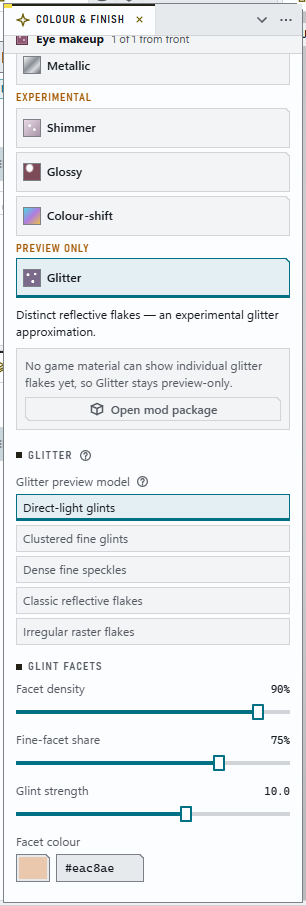
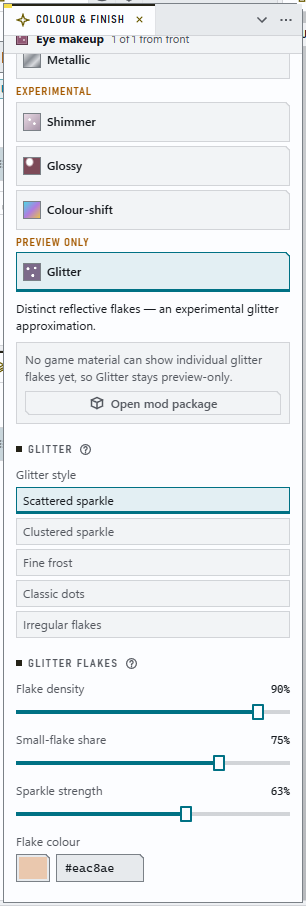
Glitter style choice: plain copy, one help tip, percentage strength (UI gate fixes)
- The list reads "Glitter style": Scattered sparkle, Clustered sparkle, Fine frost (research:
  Classic dots, Irregular flakes), each summary saying what the user sees.
- The flakes section is "Glitter flakes" with a help tip: Flake density, Small-flake share,
  Sparkle strength (as a percentage of its top), Flake colour.
- The Glitter heading holds the one help tip (the chosen style, then how its colours work).
- Recaptured light and dark, 300 and 480 px, research tools off and on, plus a legacy Classic
  layer at 300 px (listed, gone after switching, back after Undo).

diff --git a/projects/xf-studio/authoring/src/features/eye-makeup/view/inspector.ts b/projects/xf-studio/authoring/src/features/eye-makeup/view/inspector.ts
@@ -101,10 +101,10 @@ export function finishPanel(ctx: EyeMakeupViewContext): PanelController {
   const shiftSection = section({ title: "Colour shift", help: ["The shift colour shows toward the lid's edges as the view angle grows.",
     "One shift colour per preset is built into your mod."] }, h("div", { class: "row gap-m align-end" }, shift.color.element, shift.strength.element));
 
-  // Glitter preview models: the three glint models with long names, all shown (ChoiceList `rows`); the classic and irregular
-  // flake studies join them only with research tools on (or on a layer already using one).
-  // The chosen model's description is its help tip (UI-131): what it is, not something to do.
-  const model = new ChoiceList<GlitterModel>({ label: "Glitter preview model", layout: "rows", help: "", onSelect: value => {
+  // Glitter styles: the three sparkle models, all shown (ChoiceList `rows`); the classic and irregular flake studies join them
+  // only with research tools on (or on a layer already using one). The chosen style's description goes in the Glitter
+  // heading's one help tip (UI-131), so the list has no tip of its own.
+  const model = new ChoiceList<GlitterModel>({ label: "Glitter style", layout: "rows", onSelect: value => {
     const layer = ctx.facade.view().layer(); if (layer) ctx.dispatch({ kind: "glitter.selectModel", layerId: layer.id, model: value });
   } });
   const classic = {
@@ -136,25 +136,29 @@ export function finishPanel(ctx: EyeMakeupViewContext): PanelController {
     { term: "Covered pixels", value: measured.pixels, mono: true }], { label: "Flake measurement", className: "flake-measurement" });
   // The glint-strength control's usable top comes from the Glitter model catalogue (UI-93).
   const glintMax = catalogues(ctx).glitterModels.find(item => item.controlMax?.strength)?.controlMax?.strength;
+  // Shown as a percentage of the control's top, beside the other percentage sliders.
+  const strengthMax = Math.min(glintMax ?? Infinity, ctx.range("glitter.setDirect", "value", "strength").max);
   const direct = {
-    density: new Slider({ label: "Facet density", ...ctx.range("glitter.setDirect", "value", "density"), step: .01, format: pct,
+    density: new Slider({ label: "Flake density", ...ctx.range("glitter.setDirect", "value", "density"), step: .01, format: pct,
       transaction: recipeTransaction<number>(ctx, "direct-density", (layer, value) => ({ kind: "glitter.setDirect", layerId: layer.id, key: "density", value })) }),
-    fineShare: new Slider({ label: "Fine-facet share", ...ctx.range("glitter.setDirect", "value", "fineShare"), step: .01, format: pct,
+    fineShare: new Slider({ label: "Small-flake share", ...ctx.range("glitter.setDirect", "value", "fineShare"), step: .01, format: pct,
       transaction: recipeTransaction<number>(ctx, "direct-fineShare", (layer, value) => ({ kind: "glitter.setDirect", layerId: layer.id, key: "fineShare", value })) }),
-    strength: new Slider({ label: "Glint strength", min: 0, max: Math.min(glintMax ?? Infinity, ctx.range("glitter.setDirect", "value", "strength").max), step: .5, format: value => value.toFixed(1),
+    strength: new Slider({ label: "Sparkle strength", min: 0, max: strengthMax, step: .5, format: value => `${Math.round(value / strengthMax * 100)}%`,
       transaction: recipeTransaction<number>(ctx, "direct-strength", (layer, value) => ({ kind: "glitter.setDirect", layerId: layer.id, key: "strength", value })) }),
-    color: new ColorField({ label: "Facet colour", transaction: recipeTransaction<string>(ctx, "direct-color", (layer, value) => ({ kind: "glitter.setDirect", layerId: layer.id, key: "color", value })) }),
+    color: new ColorField({ label: "Flake colour", transaction: recipeTransaction<string>(ctx, "direct-color", (layer, value) => ({ kind: "glitter.setDirect", layerId: layer.id, key: "color", value })) }),
   };
   // Everyone chooses among the glint models; the classic and irregular studies are research tools (UI-85).
   const modelChoice = h("div", {}, model.element);
   // That Glitter isn't built into mods is said once, by the finish's export line; the section says only how its colours work.
-  const glitterSection = section({ title: "Glitter", help: "Layer colour is the base; the flakes have their own colour." }, modelChoice);
+  const GLITTER_BASE = "Layer colour is the base; the flakes have their own colour.";
+  const glitterSection = section({ title: "Glitter", help: GLITTER_BASE }, modelChoice);
   const classicSection = section({ title: "Flakes", help: ["Turn the head to see the flakes catch the light.", "Experimental: may look different in game."] },
     classic.cells.element, classic.density.element, classic.tilt.element);
   const irregularSection = section({ title: "Irregular flakes", help: ["Field density is not a visible flake count.",
     "The counts measure the painted shape's texture: flake centres in the shape, the field they come from, and texture pixels with flake coverage. They are not glints seen on screen."] },
   irregular.count.element, measurement, irregular.radius.element, irregular.spread.element, irregular.tilt.element, irregular.color.element);
-  const directSection = section("Glint facets", direct.density.element, direct.fineShare.element, direct.strength.element, direct.color.element);
+  const directSection = section({ title: "Glitter flakes", help: ["Turn the head or move the light to see the flakes sparkle.", "Preview only: Glitter isn't built into mods yet."] },
+    direct.density.element, direct.fineShare.element, direct.strength.element, direct.color.element);
   const body = h("div", { class: "stack" },
     section("Pigment", h("div", { class: "row gap-m align-end" }, color.element, opacity.element)),
     section("Finish", finishGroup, description, exportLine),
@@ -208,10 +212,12 @@ export function finishPanel(ctx: EyeMakeupViewContext): PanelController {
         model.setOptions(catalogues(ctx).glitterModels.filter(item => !item.research || research || item.id === modelId)
           .map(item => ({ value: item.id, label: item.label })));
         model.update(modelId, value => modelChoices.find(choice => choice.value === value)?.capability ?? { available: true });
-        model.setHelp(catalogues(ctx).glitterModels.find(item => item.id === modelId)?.summary ?? "");
+        // One tip for the section: what the chosen style looks like, then how its colours work.
+        const summary = catalogues(ctx).glitterModels.find(item => item.id === modelId)?.summary;
+        setHelp(glitterSection.querySelector<HTMLElement>(".help-tip")!, summary ? [summary, GLITTER_BASE] : GLITTER_BASE);
       }
       if (!classicSection.hidden) {
-        const flakesTitle = glitter ? "Classic reflective flakes" : "Shimmer sparkles";
+        const flakesTitle = glitter ? "Classic dots" : "Shimmer sparkles";
         setText(classicSection.querySelector(".section-title")!, flakesTitle);
         setAttr(classicSection.querySelector(".help-tip")!, "aria-label", `About ${flakesTitle}`);
         // Shimmer is an experimental export; classic Glitter is preview only, so its tip doesn't call it experimental.
@@ -242,7 +248,7 @@ export function finishPanel(ctx: EyeMakeupViewContext): PanelController {
       }
       if (!directSection.hidden && flakes && "model" in flakes && flakes.model !== "irregular-planar-1") {
         const f = flakes as ReadonlyDeep<DirectGlintFlakes>;
-        setText(direct.density.element.querySelector(".control-label-text > span")!, f.model === "uv-cell-direct-1" ? "Facet density" : "Maximum facet density");
+        setText(direct.density.element.querySelector(".control-label-text > span")!, f.model === "uv-cell-direct-1" ? "Flake density" : "Maximum flake density");
         direct.density.update(f.density); direct.fineShare.update(f.fineShare); direct.strength.update(f.strength); direct.color.update(f.color);
       }
     },

diff --git a/projects/xf-studio/authoring/tools/glitter-model-look.ts b/projects/xf-studio/authoring/tools/glitter-model-look.ts
@@ -1,7 +1,10 @@
 /**
- * Captures for the design gate of the Glitter model choice (experiment 032): the Colour & finish panel's Glitter section
- * on a layer that has just become Glitter, floated at 300 and 480 px, with research tools off and on, in one scheme. It runs
- * an isolated `?verify=1` workspace with disposable data and a throwaway headless Chrome profile, on its own port (never 4317).
+ * Captures for the design gate of the Glitter style choice (experiment 032), in one scheme:
+ * - the Colour & finish panel on a layer that has just become Glitter, floated at 300 and 480 px, research tools off and on;
+ * - a legacy Classic glitter layer with research tools off at 300 px: it keeps its style listed; after switching to Scattered
+ *   sparkle Classic is no longer offered; Undo brings it back.
+ * It runs an isolated `?verify=1` workspace with disposable data and a throwaway headless Chrome profile, on its own port
+ * (never 4317), and stops the server afterwards.
  *
  *   bun tools/glitter-model-look.ts <out dir> [port] [light|dark]
  */
@@ -9,7 +12,7 @@ import { mkdirSync } from "node:fs";
 import { resolve } from "node:path";
 import { launch, startServer } from "./cdp";
 
-const [outArg, portArg = "4493", schemeArg = "dark"] = process.argv.slice(2);
+const [outArg, portArg = "4327", schemeArg = "dark"] = process.argv.slice(2);
 if (!outArg || (schemeArg !== "light" && schemeArg !== "dark")) throw Error("Usage: bun tools/glitter-model-look.ts <out dir> [port] [light|dark]");
 const out = resolve(outArg), port = +portArg, scheme = schemeArg;
 mkdirSync(out, { recursive: true });
@@ -46,5 +49,26 @@ try {
     }
   }
   const model = await page.evaluate(`${EM}.view().layer()?.flakes?.model ?? "classic"`);
-  console.log(JSON.stringify({ model, shots: 4, out }));
+  // A legacy Classic glitter layer (as older looks store it), research tools off.
+  const shoot = async (id: string) => {
+    await floatAt("finish", 300); await page.wait(700);
+    await page.evaluate(`[...document.querySelectorAll('.section-title')].find(e => e.textContent === 'Glitter')?.scrollIntoView({ block: 'start' })`);
+    await page.wait(300);
+    const clip = await windowRect("finish") as { x: number; y: number; width: number; height: number } | null;
+    await page.screenshot(resolve(out, `${scheme}-300-legacy-${id}.png`), clip ?? undefined);
+  };
+  const styles = () => page.evaluate(`[...document.querySelectorAll('.section-title')].find(e => e.textContent === 'Glitter')?.closest('section, .section')
+    ?.querySelectorAll('[role=radio], .choice') .length ?? null`);
+  const layerId = `${EM}.view().layer().id`;
+  await page.evaluate(`${EM}.dispatch({ kind: 'glitter.selectModel', layerId: ${layerId}, model: 'classic' })`);
+  await page.evaluate(`window.xfStudioShell.runtime.port.preferences.dispatch({ kind: "researchTools.set", enabled: false })`);
+  await shoot("classic");
+  const withClassic = await styles();
+  await page.evaluate(`${EM}.dispatch({ kind: 'glitter.selectModel', layerId: ${layerId}, model: 'direct' })`);
+  await shoot("switched");
+  const afterSwitch = await styles();
+  const undo = await page.evaluate(`${P}.authoring.dispatch({ kind: 'history.undo' }).ok`);
+  await shoot("undo");
+  const afterUndo = await page.evaluate(`${EM}.view().layer()?.flakes?.model ?? "classic"`);
+  console.log(JSON.stringify({ model, withClassic, afterSwitch, undo, afterUndo, shots: 7, out }));
 } finally { await page.close(); server.kill(); }

diff --git a/projects/xf-studio/authoring/src/engines/layered-makeup/finish-catalogue.ts b/projects/xf-studio/authoring/src/engines/layered-makeup/finish-catalogue.ts
@@ -84,15 +84,15 @@ const classicDefaults = () => { const { cells, density, tilt } = defaultFlakes()
  */
 export function glitterModelCatalogue(wording: RegionWording): GlitterModelDescriptor[] {
   return [
-    { id: "direct", label: "Direct-light glints", stored: ["uv-cell-direct-1"], controlMax: GLINT_CONTROL_MAX,
-      summary: "Fine facets and occasional larger flashes respond to the preview light." },
-    { id: "clustered", label: "Clustered fine glints", stored: ["uv-cell-direct-2"], controlMax: GLINT_CONTROL_MAX,
-      summary: "Fine facets gather in soft clusters over a continuous sheen." },
-    { id: "fine", label: "Dense fine speckles", stored: ["uv-cell-direct-3"], controlMax: GLINT_CONTROL_MAX,
-      summary: "Denser tiny speckles with a sparse population of larger flashes; can look frosty." },
-    { id: "classic", label: "Classic reflective flakes", stored: [], defaults: classicDefaults(), research: true,
-      summary: "Original reflective flake map; existing classic recipes retain this look." },
-    { id: "irregular", label: "Irregular raster flakes", stored: ["irregular-planar-1"], research: true,
-      summary: `Irregular flakes are baked into a texture. Dense settings cover ${wording.area} and can lose sparkle at face distance.` },
+    { id: "direct", label: "Scattered sparkle", stored: ["uv-cell-direct-1"], controlMax: GLINT_CONTROL_MAX,
+      summary: "Tiny sparkles with an occasional bigger flash as the head turns." },
+    { id: "clustered", label: "Clustered sparkle", stored: ["uv-cell-direct-2"], controlMax: GLINT_CONTROL_MAX,
+      summary: "Sparkles gather in soft patches over a gentle sheen." },
+    { id: "fine", label: "Fine frost", stored: ["uv-cell-direct-3"], controlMax: GLINT_CONTROL_MAX,
+      summary: "A dense frost of tiny sparkles, with a few bigger flashes." },
+    { id: "classic", label: "Classic dots", stored: [], defaults: classicDefaults(), research: true,
+      summary: "Evenly spaced reflective dots, the original glitter look; older layers keep it." },
+    { id: "irregular", label: "Irregular flakes", stored: ["irregular-planar-1"], research: true,
+      summary: `Flakes of varied shape and size. Dense settings cover ${wording.area} and can lose their sparkle from further away.` },
   ];
 }

diff --git a/projects/xf-studio/authoring/tests/layered-makeup-region.test.ts b/projects/xf-studio/authoring/tests/layered-makeup-region.test.ts
@@ -35,7 +35,7 @@ test("eye makeup's region is what the engine used to hard-code", () => {
   expect(finishCatalogue(EYE_MAKEUP_REGION.wording).find(item => item.id === "iridescent")!.description)
     .toBe("The colour turns toward a chosen shift colour as the lid curves away from view.");
   expect(glitterModelCatalogue(EYE_MAKEUP_REGION.wording).find(item => item.id === "irregular")!.summary)
-    .toBe("Irregular flakes are baked into a texture. Dense settings cover the eye UV area and can lose sparkle at face distance.");
+    .toBe("Flakes of varied shape and size. Dense settings cover the eye UV area and can lose their sparkle from further away.");
   expect(rasterRegion(EYE_MAKEUP_REGION)).toEqual({ mirror: EYE_MAKEUP_REGION.mirror, skin: EYE_MAKEUP_REGION.skin,
     fineGlitter: EYE_MAKEUP_REGION.fineGlitter, opticsWindow: EYE_MAKEUP_REGION.opticsWindow, wording: { area: "the eye UV area" } });
   // Mottle's skin scale: the plate measure the glitter route uses, and the plate window's texel.

diff --git a/research/materials/finish-designs/glitter.md b/research/materials/finish-designs/glitter.md
@@ -50,11 +50,13 @@ The browser Glitter models (recipes 7–10) compute glints per fragment from sub
 ## Studio UX (for the design gate)
 
 The UI change is minimal and uses only existing components, so the design gate should review it as a small change:
-1. **The model choice shows to everyone.** It is the existing `ChoiceList` in rows in the Colour & finish panel's Glitter section; before, it showed only with research tools on.
-2. **The glint models come first:** Direct-light glints, Clustered fine glints, Dense fine speckles. Classic reflective flakes (the macro dots, the seed of the banked Pattern finish) and Irregular raster flakes are listed only with research tools on, or on a layer already using one, so its current value always shows.
-3. **A layer that becomes Glitter starts in Direct-light glints**, not the classic dots. It gets its own earlier settings for that model if it had them; its classic settings are kept for the classic study.
+1. **The style choice shows to everyone.** It is the existing `ChoiceList` in rows in the Colour & finish panel's Glitter section, labelled "Glitter style"; before, it showed only with research tools on, as "Glitter preview model".
+2. **Plain names, sparkle styles first:** Scattered sparkle (direct-light glints), Clustered sparkle, Fine frost (dense fine speckles). Classic dots (the macro dots, the seed of the banked Pattern finish) and Irregular flakes are listed only with research tools on, or on a layer already using one, so its current value always shows. Once such a layer switches away, only Undo brings its study back (research tools off).
+3. **One help tip:** the Glitter heading's tip says what the chosen style looks like and how its colours work; the list has none of its own.
+4. **The flakes section** reads "Glitter flakes" with a help tip like Shimmer's: Flake density, Small-flake share, Sparkle strength (as a percentage of its top) and Flake colour.
+5. **A layer that becomes Glitter starts in Scattered sparkle**, not the classic dots. It gets its own earlier settings for that style if it had them; its classic settings are kept for the classic study. The maintainer may choose another default.
 
-No copy, component or style-guide entry changed. The captures for the gate show the Colour & finish panel on a layer that has just become Glitter, floated at 300 and 480 px, in light and dark, with research tools off and on: [the eight captures](../../../projects/xf-studio/authoring/evidence/glitter-model-choice-2026-09-29/), made by [`tools/glitter-model-look.ts`](../../../projects/xf-studio/authoring/tools/glitter-model-look.ts) in an isolated `?verify=1` workspace. The pattern followed is the same `ChoiceList` rows the panel already used for these models with research tools on.
+No component or style-guide entry changed (the style guide's usage note still names the list by its old label; that is the UI track's to update). The captures for the gate show the Colour & finish panel on a layer that has just become Glitter, floated at 300 and 480 px, in light and dark, with research tools off and on, and a legacy Classic glitter layer at 300 px with research tools off (listed, then gone after switching to Scattered sparkle, then back after Undo): [the fourteen captures](../../../projects/xf-studio/authoring/evidence/glitter-model-choice-2026-09-29/), made by [`tools/glitter-model-look.ts`](../../../projects/xf-studio/authoring/tools/glitter-model-look.ts) in an isolated `?verify=1` workspace. The pattern followed is the same `ChoiceList` rows the panel already used for these models with research tools on.
 
 ## What the preview must do (when rank 1 is built)
 

diff --git a/experiments/032-finishes-rework/README.md b/experiments/032-finishes-rework/README.md
@@ -110,7 +110,7 @@ How to read it:
 
 ## 4. The Studio's default glitter model
 
-A layer that becomes Glitter now starts in **Direct-light glints**, with this layer's remembered settings if it had them. It no longer starts in the classic macro dots. Direct-light glints is sparse facets with occasional larger flashes, the closest to the agreed Glitter definition. Glitterati's Dense fine speckles, the model closest to shimmer, stays one choice away. The three glint models are offered to everyone, with Direct-light glints first. The classic and irregular flake studies show only with research tools on, or on a layer already using one. The classic model's macro dots are the seed of the banked Pattern finish ([backlog](../../research/backlog/README.md)). The UI change is listed for the design gate in the [Glitter design](../../research/materials/finish-designs/glitter.md#studio-ux-for-the-design-gate).
+A layer that becomes Glitter now starts in **Direct-light glints** (shown as "Scattered sparkle"; the list is "Glitter style", with Clustered sparkle and Fine frost), with this layer's remembered settings if it had them. It no longer starts in the classic macro dots. Direct-light glints is sparse facets with occasional larger flashes, the closest to the agreed Glitter definition. Glitterati's Dense fine speckles, the model closest to shimmer, stays one choice away. The three glint models are offered to everyone, with Direct-light glints first. The classic and irregular flake studies show only with research tools on, or on a layer already using one. The classic model's macro dots are the seed of the banked Pattern finish ([backlog](../../research/backlog/README.md)). The UI change is listed for the design gate in the [Glitter design](../../research/materials/finish-designs/glitter.md#studio-ux-for-the-design-gate).
 
 ## 5. An isolated alternative: the car-paint metallic flake layer
 
